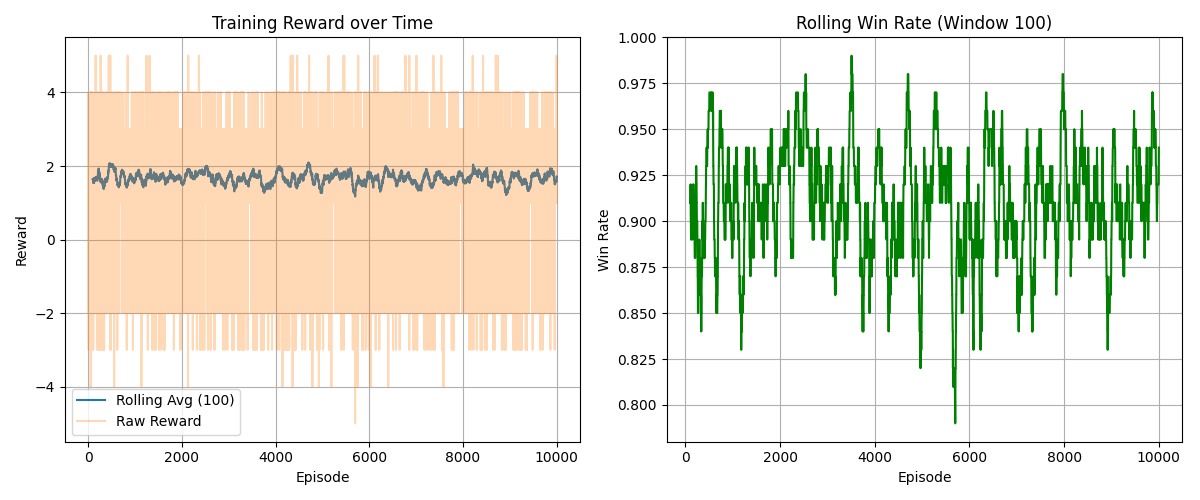
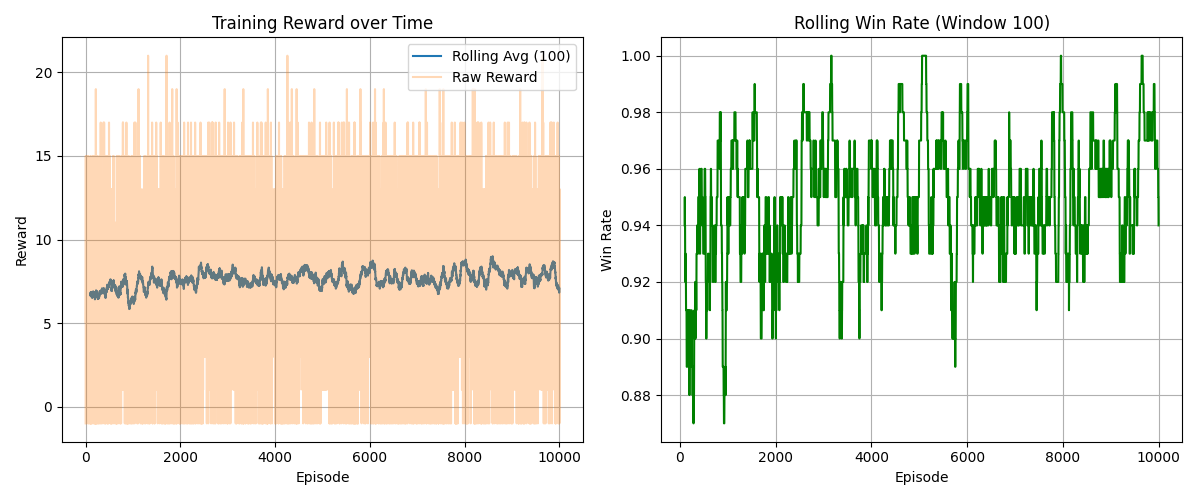
Some fixes

diff --git a/train_reinforce.py b/train_reinforce.py
@@ -40,6 +40,7 @@ def train_reinforce(
             print(f"Failed to load model: {e}")
             print("Starting training from scratch.")
     
+    '''
     opponent = ReinforceAgent(
         action_space=env.action_space,
         input_dim=input_dim,
@@ -48,7 +49,9 @@ def train_reinforce(
         hidden_dim=hidden_dim
     )
     opponent.load(model_path)
-    
+    '''
+
+    opponent = MixAgent(env.action_space, epsilon=0.6)
     # Initialize stats recorder
     stats_recorder = StatsRecorder(save_dir="stats", model="reinforce_agent")
     
@@ -81,15 +84,27 @@ def train_reinforce(
             done = terminated or truncated
             
             if current_player == agent_player_idx:
-                agent.store_reward(reward)
-            else:
-                agent.store_reward(-reward) 
+                agent.store_reward(reward) 
                 
             obs = next_obs
             
             if current_player == agent_player_idx:
                 total_reward += reward
-                
+
+        # After the while loop, before agent.update()
+        last_actor = env.current_player_idx  # player who just moved
+
+        # 'reward' here is from the last step in the loop
+        if last_actor != agent_player_idx:
+            # Opponent made the final move and got 'reward' from their perspective.
+            # From the agent's perspective it's -reward.
+            if agent.rewards:
+                agent.rewards[-1] += -reward  # add terminal outcome to last agent reward
+            else:
+                # Edge case: agent never moved (very short game)
+                agent.store_reward(-reward)
+
+
         # Update agent
         loss = agent.update()
         loss_history.append(loss)
@@ -128,4 +143,4 @@ def train_reinforce(
     print("Loss plot saved to stats/reinforce_loss.png")
 
 if __name__ == "__main__":
-    train_reinforce(num_episodes=10000, hidden_dim=2*256, rows=4, cols=4, model_path="models/reinforce_agent_4x4.pth") 
+    train_reinforce(num_episodes=10000, hidden_dim=2*512, rows=3, cols=3, model_path="models/reinforce_agent_3x3.pth") 

diff --git a/algorithms/trainer.py b/algorithms/trainer.py
@@ -72,7 +72,7 @@ class Trainer:
                     action = self.opponent.choose_action(obs, legal_actions)
 
                 # DEBUG: make sure we never step with an illegal action according to our own mask
-                if self.env.current_player_idx == 0:  # only for the agent player
+                if is_agent_turn:
                     assert action in legal_actions, f"Chosen action {action} not in legal_actions {legal_actions[:20]}"
 
                 next_obs, reward, terminated, truncated, info = self.env.step(action)
@@ -103,6 +103,21 @@ class Trainer:
 
             # MC Update (Offline / End of Episode)
             if hasattr(self.agent, 'update_from_episode'):
+                if len(episode_data) > 0:
+                    # Who made the last move according to the env?
+                    last_actor = self.env.current_player_idx
+
+                    if last_actor != agent_player_idx:
+                        # The opponent made the final move.
+                        # Compute the final outcome *from the agent's perspective*
+                        # and add it to the last agent reward.
+                        final_outcome_for_agent = self.env._final_outcome_reward(
+                            acting_player_idx=agent_player_idx
+                        )
+
+                        s, a, r = episode_data[-1]
+                        episode_data[-1] = (s, a, r + final_outcome_for_agent)
+
                 self.agent.update_from_episode(episode_data)
 
             # Decay Epsilon if applicable

diff --git a/algorithms/q_learning.py b/algorithms/q_learning.py
@@ -54,8 +54,8 @@ class QLearningAgent(Agent):
         Uses GREEDY masked policy (no epsilon) for inference.
         """
         if legal_actions is not None:
-            return self.greedy_action_masked(observation, legal_actions)
-        return self.greedy_action(observation)
+            return self.policy_action_masked(observation, legal_actions)
+        return self.select_action(observation)
 
     # --------- state / policy helpers --------- #
 
@@ -134,7 +134,7 @@ class QLearningAgent(Agent):
         if done:
             best_next = 0.0
         else:
-            if legal_next_actions:
+            if legal_next_actions is not None and len(legal_next_actions) > 0:
                 best_next = max(q_next[a] for a in legal_next_actions)
             else:
                 best_next = float(np.max(q_next))

diff --git a/algorithms/function_approximation/model_classes/q_net_small.py b/algorithms/function_approximation/model_classes/q_net_small.py
@@ -10,7 +10,7 @@ class SmallQNet(nn.Module):
         self.out = nn.Linear(hidden_dim, n_actions)
 
     def forward(self, x: torch.Tensor):
-        x = F.relu(self.fc1(x))
-        x = F.relu(self.fc2(x))
+        x = F.tanh(self.fc1(x))
+        x = F.tanh(self.fc2(x))
         q = self.out(x)
         return q

diff --git a/train_qlearn.py b/train_qlearn.py
@@ -40,8 +40,8 @@ def train_qlearning(
         agent=agent,
         env=env,
         model_path=model_path,
-        save_interval=100000,
-        log_interval=10000,
+        save_interval=2000,
+        log_interval=1000,
         opponent= opponent,
         randomize_player=True
     )

diff --git a/train_mc.py b/train_mc.py
@@ -44,8 +44,8 @@ def train_mc(
         agent=agent,
         env=env,
         model_path=model_path,
-        save_interval=500000,
-        log_interval=10000,
+        save_interval=2000,
+        log_interval=1000,
         opponent=opponent,  
         randomize_player=True
     )

diff --git a/train_dqn.py b/train_dqn.py
@@ -61,4 +61,4 @@ def train(
     trainer.train(num_episodes=20000)
 
 if __name__ == '__main__':
-    train(SmallQNet, hidden_dim=128, model_path='models/dqn_3x3.pkl')
+    train(SmallQNet, hidden_dim=256, model_path='models/dqn_3x3.pkl')
